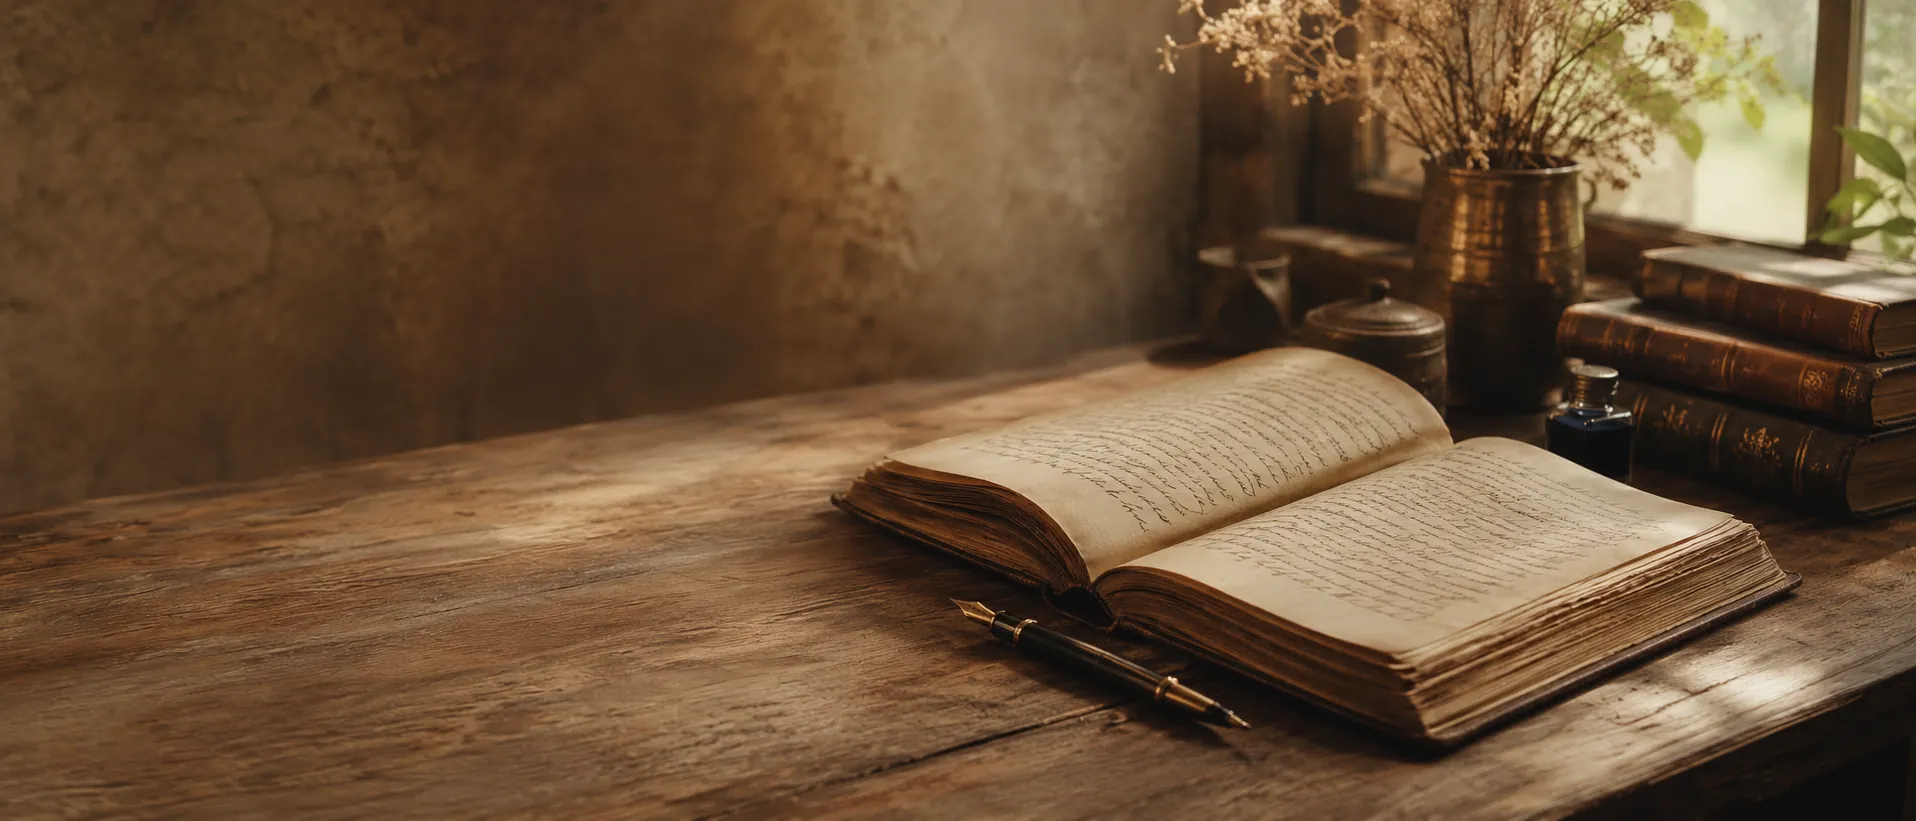
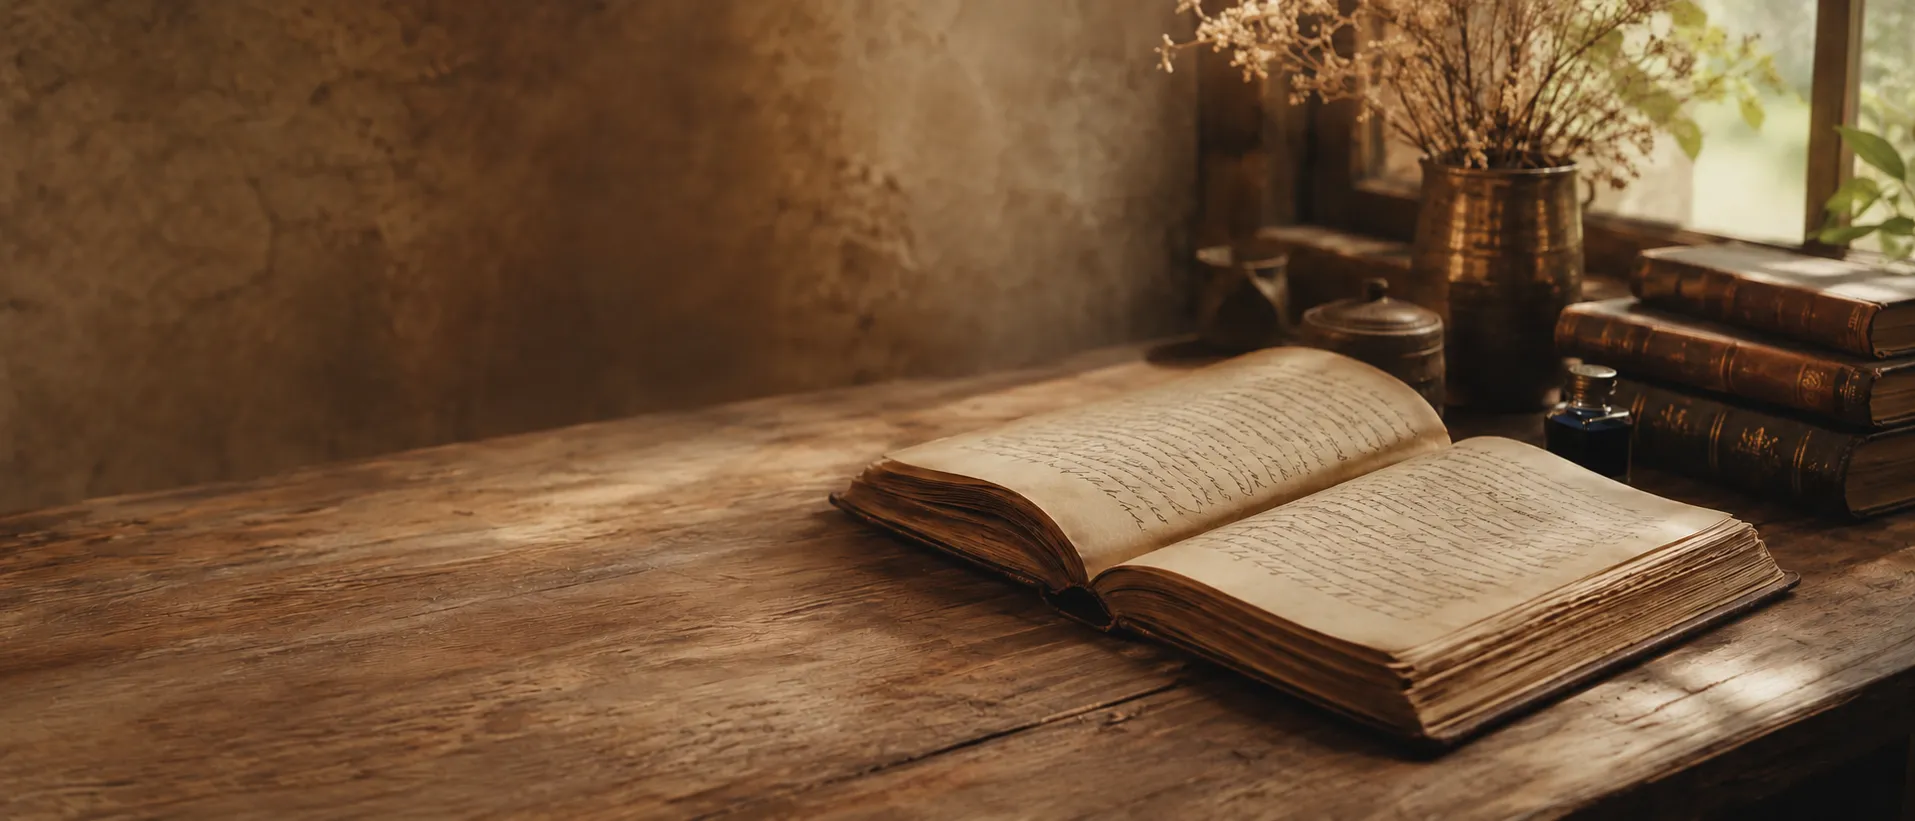
fdafs

diff --git a/src/app/Heropage.module.css b/src/app/Heropage.module.css
@@ -1,10 +1,164 @@
-@import "./../app/heropage.css";
 
-/* 
-@media (min-width: 1920px) and (max-width: 2326px) {
 
-    html {
-        font-size:90%;
 
-    }
+.heroPageBackground {
+      position: fixed;
+  top: 0;
+  left: 0;
+  width: 100vw;
+  height: 100vh;
+  background-image: var(--defaultBackgroundImage);
+  background-size: cover;
+  position: fixed;
+  background-repeat: no-repeat;
+  filter: blur(1px) brightness(58%);
+  z-index: -1;
+
+}
+
+.heroPage {
+display: flex;
+    flex-direction: column;
+    align-items: left;
+    justify-content: space-around;
+    background-color: transparent;
+    height: 100%;
+    flex-grow: 1;
+    min-width: 100%;
+    padding: 3rem 0;
+   
+    /* padding-top: 1%; */
+
+
+
+}
+
+.heroSection {
+    flex-direction: column;
+    align-items: left;
+    justify-content: center;
+    padding-left: 5%;
+    justify-content: top;
+    width:100%;
+    /* height: 80%; */
+    gap: 4rem;
+    /* background-color: rgba(20, 20, 20, 0.7); */
+    /* background: linear-gradient(90deg,
+            rgba(10, 8, 6, 0.70) 0%,
+            rgba(10, 8, 6, 0.58) 32%,
+            rgba(10, 8, 6, 0.38) 60%,
+            rgba(10, 8, 6, 0.28) 100%),
+        linear-gradient(180deg,
+            rgba(10, 8, 6, 0.20) 0%,
+            rgba(10, 8, 6, 0.42) 100%);
+
 } */
+}
+
+.headingQuoteDiv {
+    flex-direction: column;
+    align-items: left;
+    gap: 2.5rem;
+
+    /* color:white; */
+}
+
+.heroHeading {
+    font-size: 4rem;
+    color: rgb(178, 126, 29);
+    /* border-bottom: 1px solid white; */
+    width: fit-content;
+    /* margin-bottom: 0.8rem; */
+    /* text-decoration: underline; */
+    /* line-height: 1.5; */
+}
+
+.heroHeadingSpan {
+    color: lightskyblue;
+}
+
+.quotesDiv {
+
+    flex-direction: column;
+    align-items: left;
+    justify-content: center;
+    gap: 0.5rem;
+    width: fit-content;
+}
+
+.quoteText {
+    font-size: 2.4rem;
+}
+
+.quoteText2 {
+    font-size: 2.4rem;
+    /* margin-left: 0.2rem; */
+}
+
+.rootsText {
+    color: rgb(178, 126, 29);
+
+}
+
+.futureText {
+    color: lightskyblue;
+
+}
+
+.descriptionDivHeroPage {
+    flex-direction: column;
+    font-size: 1.8rem;
+    margin-top: 2rem;
+    /* max-width: 55%; */
+    max-width: 70rem;
+    text-align: left;
+    gap: 3rem;
+    justify-content: space-evenly;
+    color: rgba(221, 221, 221, 1);
+    line-height: 1.5;
+    /* color:black; */
+    /* color: white; */
+}
+
+.quotesDivBottom {
+    flex-direction: row;
+    gap: 1.2rem;
+   
+}
+
+@media (max-width: 63.99em) {
+ 
+.backgroundImageHero {
+    background-position: 40% center;
+
+}
+
+  .descriptionDivHeroPage {
+    /* max-width: 65rem; */
+    max-width: 85%;
+  }
+
+
+} 
+/* 
+@media (max-width: 63.99em) and (orientation: landscape) 
+{
+
+     do test this on tablet
+   .backgroundImageHero {
+     background-size: contain;
+   }
+
+} */
+
+@media (max-width: 47.99em)
+{
+ .descriptionDivHeroPage {
+        /* width: 30%; */
+    }
+}
+
+@media (max-width : 39.99em)
+{
+   
+}

diff --git a/src/app/page.tsx b/src/app/page.tsx
@@ -1,5 +1,5 @@
 import { BackgroundImage } from "@/components/common/BackgroundImage";
-import "./Heropage.module.css";
+import styles from "./Heropage.module.css";
 import { QuotesBottom } from "@/components/common/QuotesBottom";
 import languageJson from "@/json/languages.json"
 
@@ -14,9 +14,9 @@ export default function Home()
 
   return (
     <>
-      <BackgroundImage key={"#herobackground#"}  src="/images/backgrounds/hero.webp"/>
+      <BackgroundImage key={"#herobackground#"}  src="/images/backgrounds/hero2.webp" className={styles.heroPageBackground}/>
 
-      <main className="heroPage flex">
+      <main className={styles.heroPage}>
 
         <section className="heroSection flex fadeInAnim" style={{ animationDelay: "0.6s" }}>
 

diff --git a/src/app/heropage.css b/src/app/heropage.css
@@ -1,7 +1,18 @@
 
 
 
-.backgroundImageHero {
+.heroPageBackground {
+      position: fixed;
+  top: 0;
+  left: 0;
+  width: 100vw;
+  height: 100vh;
+  background-image: var(--defaultBackgroundImage);
+  background-size: cover;
+  position: fixed;
+  background-repeat: no-repeat;
+  filter: blur(1px) brightness(58%);
+  z-index: -1;
 
 }
 
